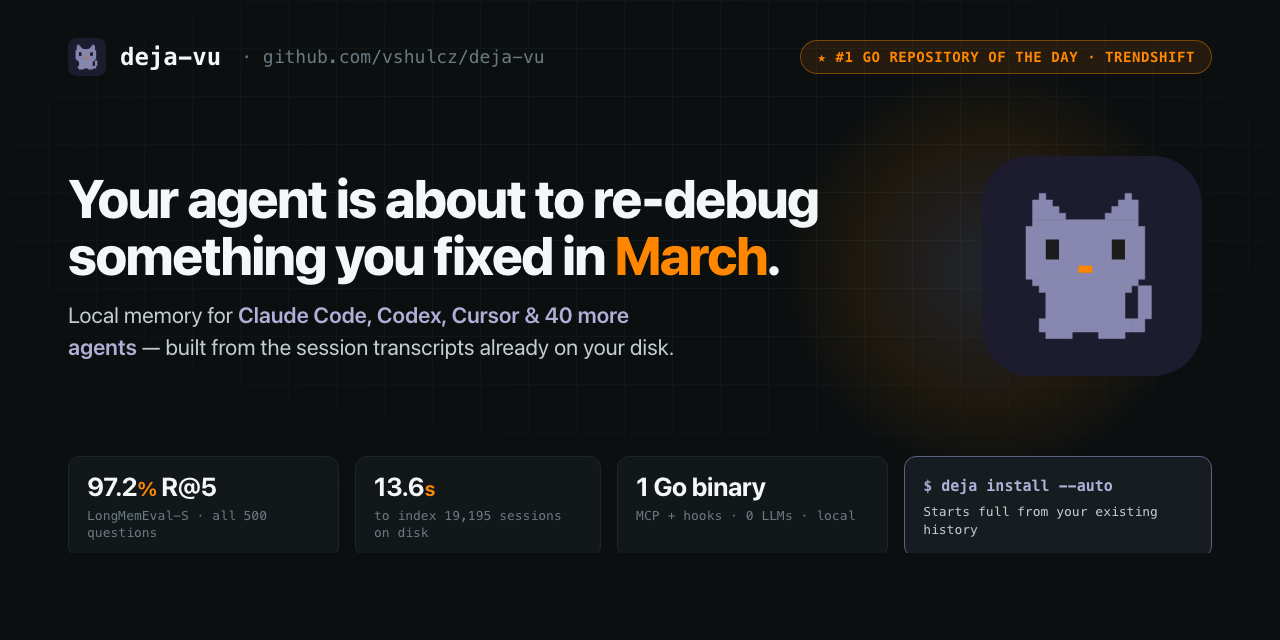
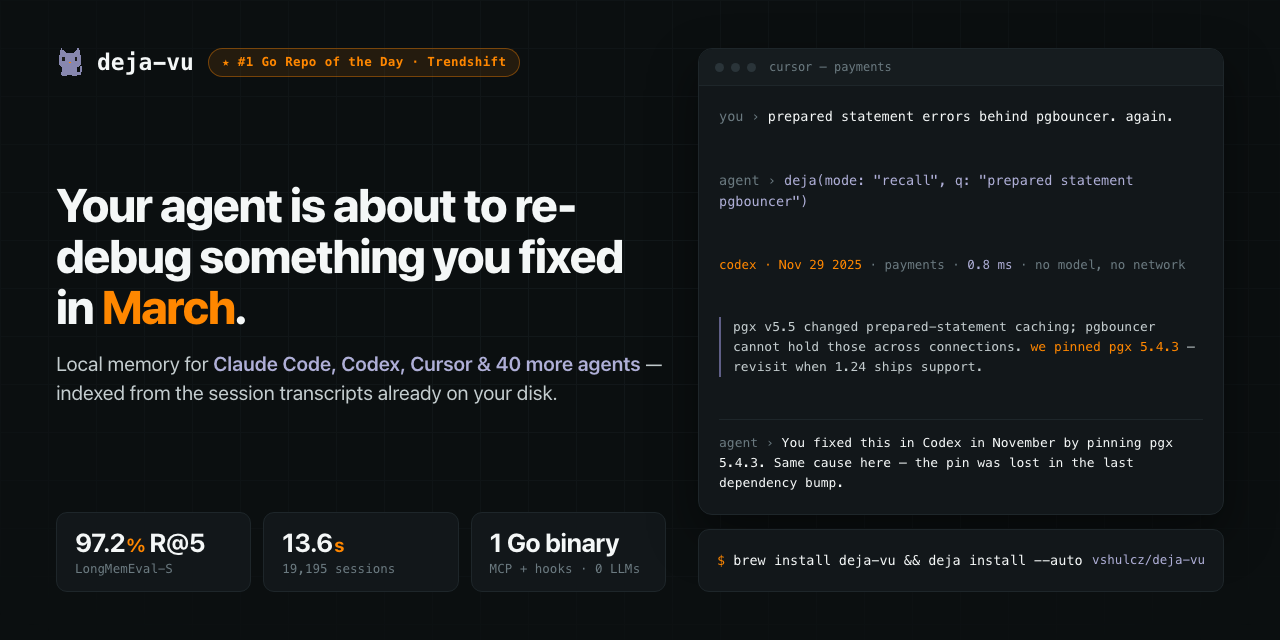
docs: refine og.png layout and add comparison table and plugin tabs to home page

diff --git a/docs/index.html b/docs/index.html
@@ -127,6 +127,14 @@ h2{font:700 12px/1 var(--mono);letter-spacing:.18em;color:var(--faint);
 .step h3{margin:12px 0 8px;font:600 17px var(--sans);color:var(--ink)}
 .step p{font-size:14.5px;color:var(--faint);line-height:1.55}
 
+.home-cmp{margin-top:28px;border:1px solid var(--line);border-radius:12px;overflow-x:auto;background:var(--panel)}
+.home-cmp table{width:100%;border-collapse:collapse;font:13px/1.55 var(--mono);min-width:680px}
+.home-cmp th,.home-cmp td{padding:12px 15px;border-bottom:1px solid var(--line);text-align:left;vertical-align:top}
+.home-cmp tr:last-child td{border-bottom:0}
+.home-cmp th{background:var(--panel-2);color:var(--faint);font-weight:500;font-size:11px;text-transform:uppercase;letter-spacing:.1em}
+.home-cmp tr.us td{background:rgba(135,135,175,.12);color:var(--ink)}
+.home-cmp tr.us td:first-child{color:var(--amber);font-weight:700}
+
 .panel{background:var(--panel);border:1px solid var(--line);border-radius:12px;padding:20px}
 .in-ln{display:flex;align-items:center;gap:8px;font:14px var(--mono);color:var(--ink)}
 .in-ln .p{color:var(--amber)}
@@ -347,9 +355,11 @@ footer a:hover{color:var(--ink)}
       installed it — and hands the right one back over MCP and hooks. No LLM, one Go binary.</p>
     <div class="install-tabs" role="tablist" aria-label="install method">
       <button type="button" class="itab on" role="tab" aria-selected="true" data-cmd="curl -fsSL https://raw.githubusercontent.com/vshulcz/deja-vu/main/install.sh | sh">macOS / Linux</button>
-      <button type="button" class="itab" role="tab" aria-selected="false" data-cmd="brew install vshulcz/tap/deja-vu">Homebrew</button>
+      <button type="button" class="itab" role="tab" aria-selected="false" data-cmd="brew install deja-vu">Homebrew</button>
       <button type="button" class="itab" role="tab" aria-selected="false" data-cmd="npm i -g @vshulcz/deja-vu">npm</button>
       <button type="button" class="itab" role="tab" aria-selected="false" data-cmd="winget install vshulcz.deja-vu">Windows</button>
+      <button type="button" class="itab" role="tab" aria-selected="false" data-cmd="claude plugin marketplace add vshulcz/deja-vu && claude plugin install deja-vu@deja-vu">Claude Code</button>
+      <button type="button" class="itab" role="tab" aria-selected="false" data-cmd="codex plugin marketplace add https://github.com/vshulcz/deja-vu && codex plugin add deja-vu@deja-vu">Codex</button>
       <button type="button" class="itab" role="tab" aria-selected="false" data-cmd="go install github.com/vshulcz/deja-vu/cmd/deja@latest">Go</button>
     </div>
     <div class="cmdline">
@@ -407,6 +417,21 @@ footer a:hover{color:var(--ink)}
         this to disk all along.</p>
     </div>
   </div>
+  <div class="home-cmp">
+    <table>
+      <thead>
+        <tr><th>Approach</th><th>History before install</th><th>Agents shared</th><th>Runtime &amp; LLM</th><th>LongMemEval-S R@5</th><th>19,195 sessions</th></tr>
+      </thead>
+      <tbody>
+        <tr class="us"><td>deja-vu</td><td>Yes — indexes existing transcripts</td><td>43 agents</td><td>1 Go binary, 0 LLMs</td><td>97.2%</td><td>13.6 s</td></tr>
+        <tr><td>CLAUDE.md / rules</td><td>Only what you hand-write</td><td>Per-file / manual</td><td>Loaded every turn</td><td>—</td><td>—</td></tr>
+        <tr><td>MemPalace</td><td>Claude Code, Codex, Cursor</td><td>3 agents</td><td>Python + 300 MB model</td><td>96.6%</td><td>72 s</td></tr>
+        <tr><td>agentmemory</td><td>Claude Code import (<code>import-jsonl</code>)</td><td>12 agents</td><td>Node daemon (2 ports)</td><td>95.2%</td><td>95 s</td></tr>
+        <tr><td>claude-mem</td><td>No — records from install on</td><td>9 agents</td><td>Bun worker + SQLite + LLM</td><td>—</td><td>—</td></tr>
+      </tbody>
+    </table>
+  </div>
+  <p class="note" style="margin-top:12px;font:12.5px var(--mono);color:var(--faint)">Full 14-tool breakdown and benchmark methodology: <a href="guide/compare.html">compare memory plugins →</a></p>
 </section>
 
 <section class="reveal" id="screen">
@@ -440,8 +465,7 @@ footer a:hover{color:var(--ink)}
       <button class="chip" data-q="cors">cors</button>
       <button class="chip" data-q="migration rollback">migration rollback</button>
     </div>
-    <p class="demo-note">demo corpus: 16 synthetic sessions — press <b>/</b> anywhere to search.
-      The real thing searches your own history, retroactively.</p>
+    <p class="demo-note">demo corpus: 16 synthetic sessions — press <b>/</b> anywhere to search, or <a href="view/">browse the full 67-session demo in deja view →</a></p>
   </div>
 </section>
 
